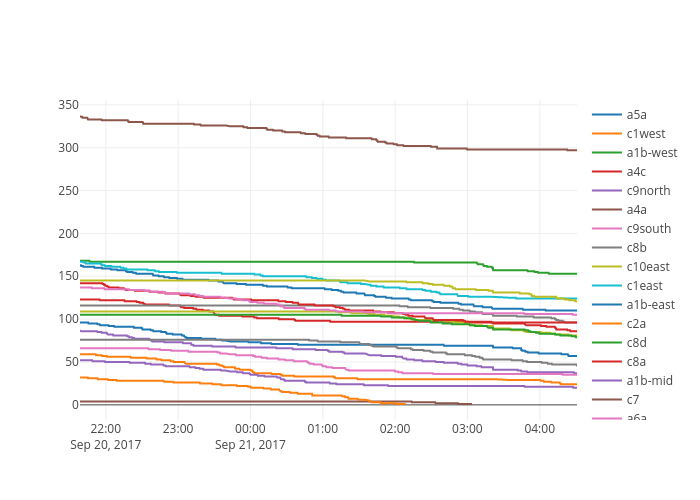
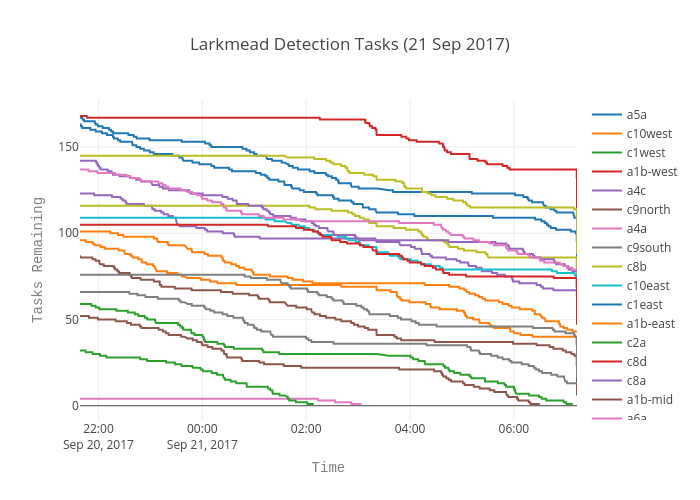
Correct Detection dir deletion, plotting

diff --git a/orchestrator.py b/orchestrator.py
@@ -554,7 +554,7 @@ def detection(task):
         redisman.put(':'.join([task['role'], task['session_name']]), task)
 
         # Remove output files
-        for dir in glob.glob('/home/agridata/code/deepLearning/infra/output/*'):
+        for dir in glob.glob('/home/agridata/code/projects/deepLearning/infra/output/'):
             shutil.rmtree(dir)
     except Exception, e:
         tb = traceback.format_exc()
@@ -793,6 +793,9 @@ def run(args):
                 p = multiprocess.Process(target=client, args=[[('rvm', generateRVM), ('preproc', preprocess), ('process', process)]])
                 workers.append(p)
                 p.start()
+
+                # Stagger MATLABs
+                time.sleep(10)
 
             for worker in workers:
                 p.join()

diff --git a/utils/plot_logs.py b/utils/plot_logs.py
@@ -79,5 +79,5 @@ layout = go.Layout(
     )
 )
 
-fig = go.Figure(data=data, layout=layout)
+fig = go.Figure(data=series, layout=layout)
 py.image.save_as(fig, filename=logpath.replace('.log','.png'))
